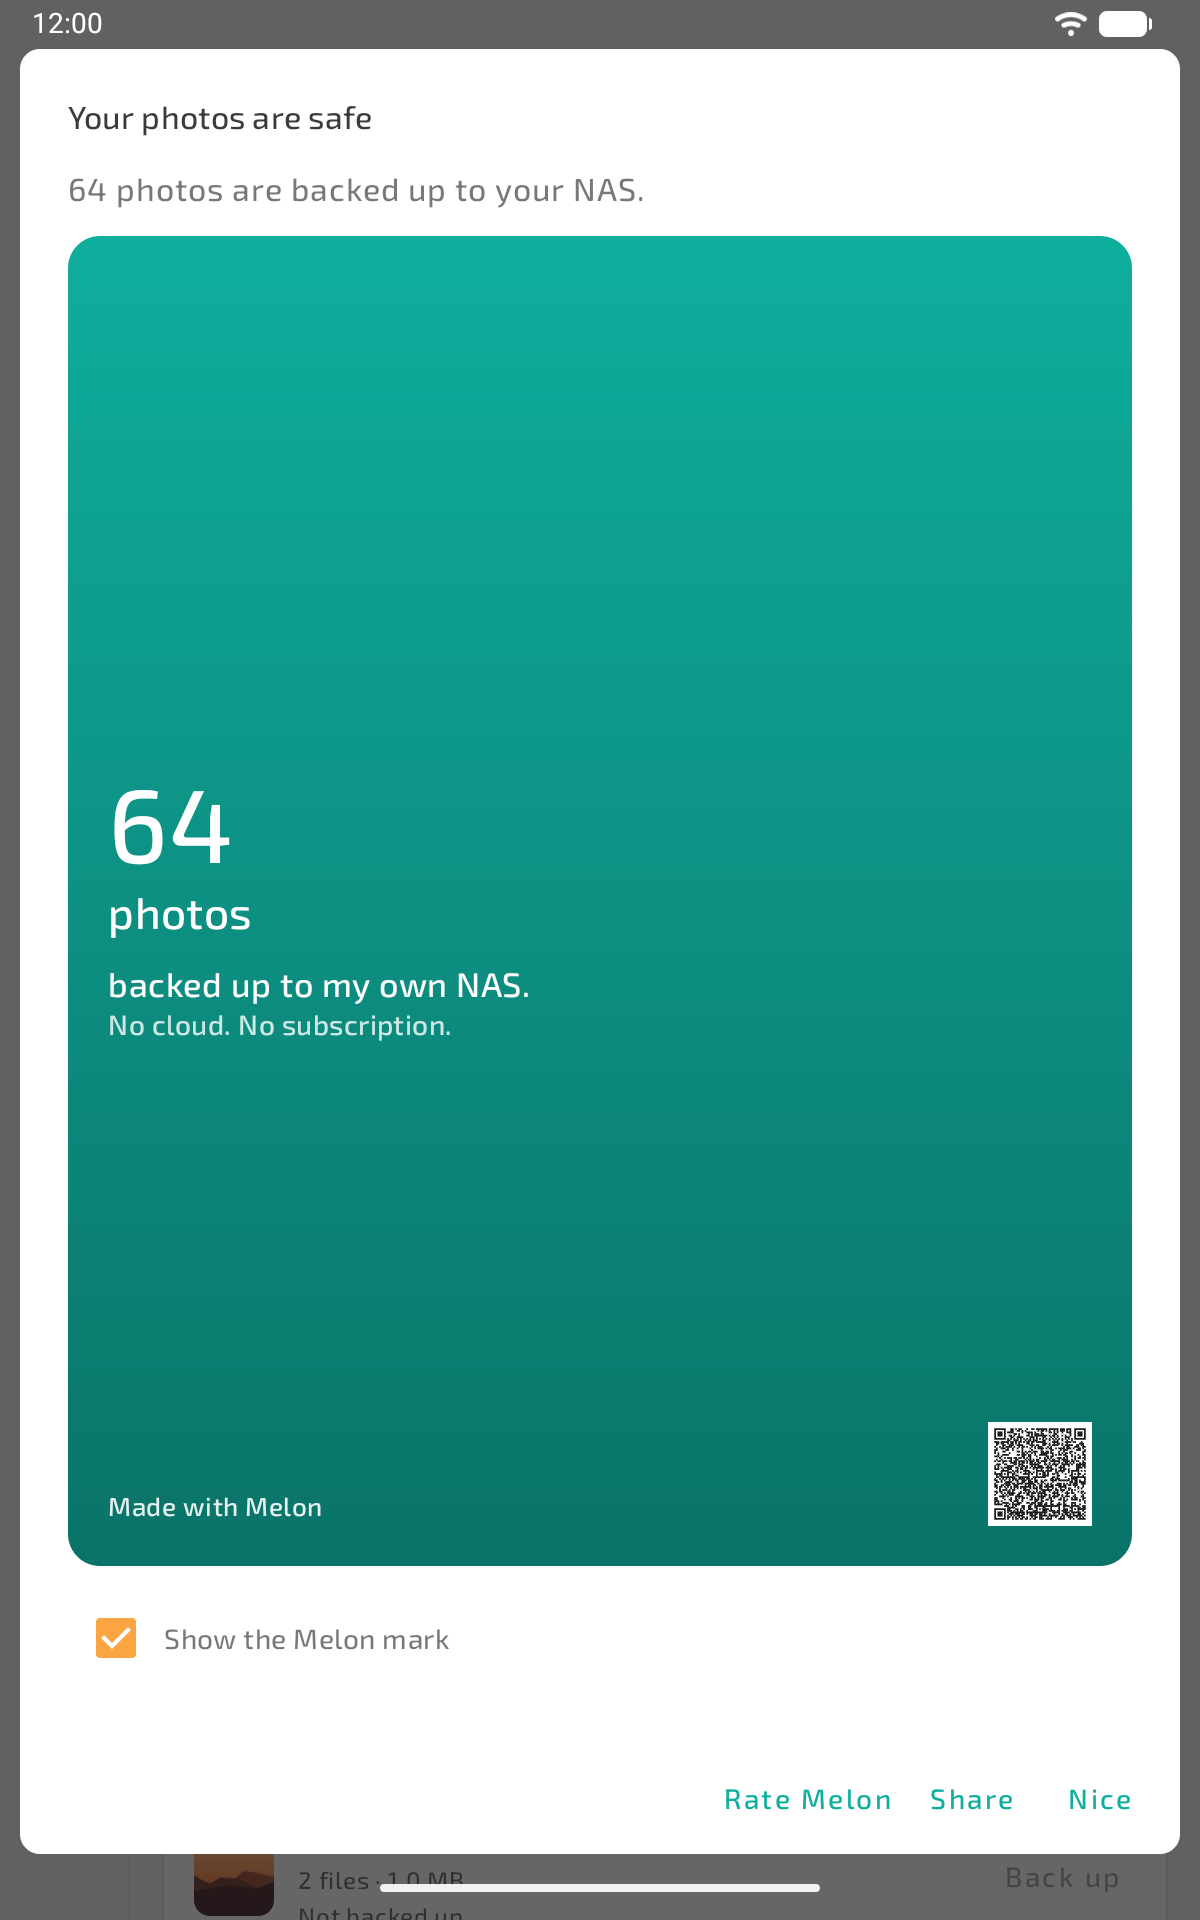
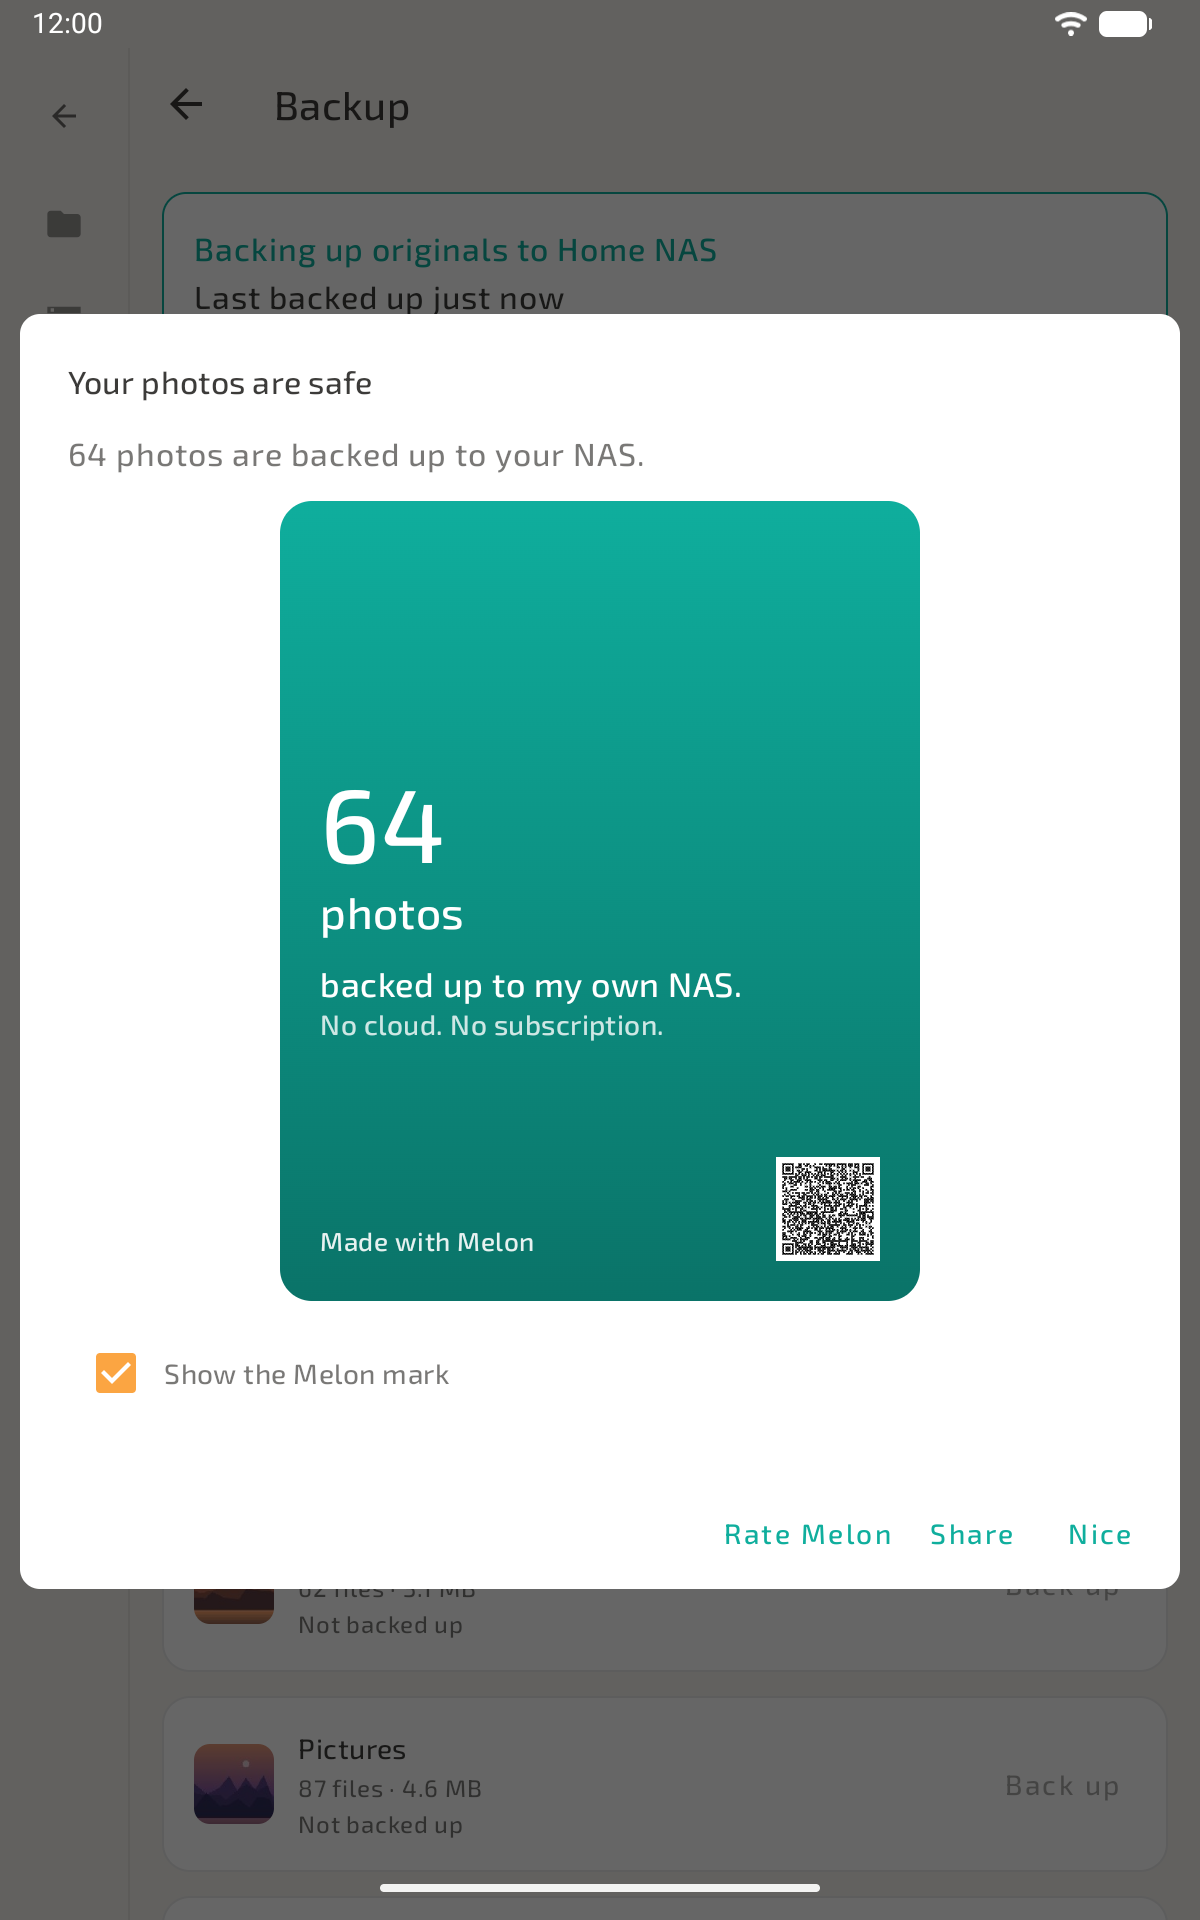
Play tablet shot 3 (first-backup card) on 7-inch and 10-inch, from the build with the card fix: the card keeps phone size, centred, on both tablets. The 10-inch set now has all eight shots.

diff --git a/play/README.md b/play/README.md
@@ -21,14 +21,12 @@ Same order and captions as the App Store set (`../app-store/`).
 |---|---|---|
 | 1 | Every photo, straight to your own NAS | `01-backup-status.png` |
 | 2 | Set up once, in a minute | `02-nas-setup.png` |
-| 3 | Free. Private. No cloud. | `03-first-backup.png` (phone and 7-inch only, see below) |
+| 3 | Free. Private. No cloud. | `03-first-backup.png` |
 | 4 | Play straight from your NAS | `04-nas-video.png` |
 | 5 | Your photos on a map | `05-map.png` |
 | 6 | Jump to any year | `06-timeline.png` |
 | 7 | Send files to anyone — no app needed | `07-share-by-link.png` |
 | 8 | A real file manager, too | `08-explorer.png` |
-
-The 10-inch set has no shot 3 yet: on a landscape tablet the first-backup card overflows its dialog, so it is left out until that is fixed in the app. Play needs at least 4 tablet screenshots, so the 10-inch set is complete without it.
 
 `laptop-mockup-sources/04-share-page-browser-1440x900.png` (what the other person sees when they open a share link) is kept as a spare; it is not in the eight above.
 
